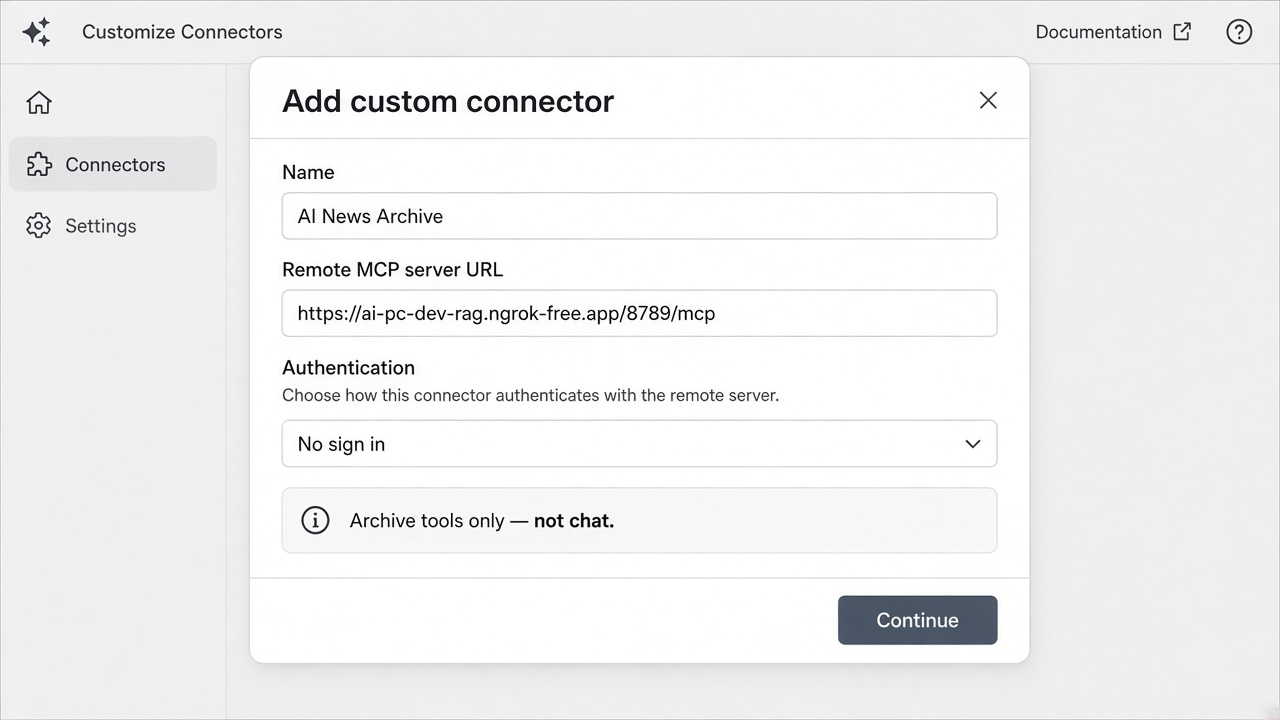
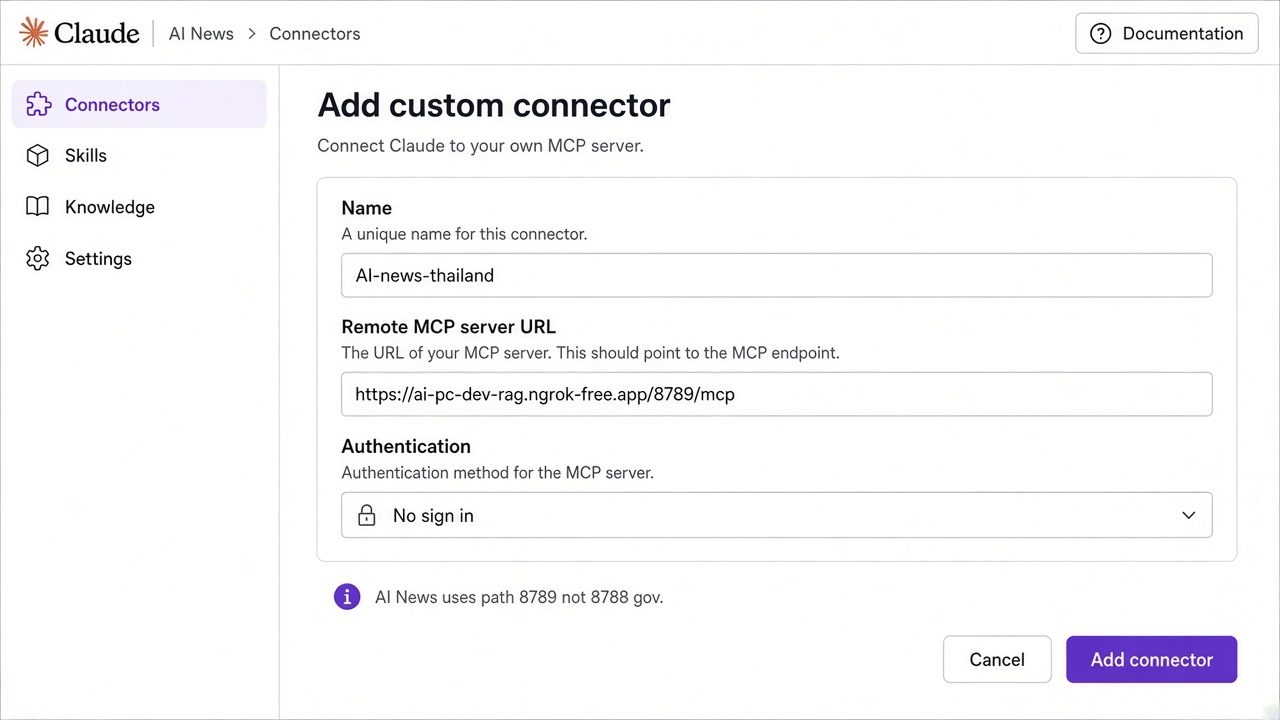
Document Claude connector as AI-news-thailand on /8789/mcp.
Mirror gov-news-thailand naming; keep Auth No sign in and warn against using gov :8788.

diff --git a/README.md b/README.md
@@ -68,11 +68,22 @@ https://ai-pc-dev-rag.ngrok-free.app/8789/mcp
 
 ### Claude.ai — เพิ่ม Custom Connector
 
+เหมือนรูปแบบ `gov-news-thailand` แต่คนละพอร์ต:
+
+| ช่อง | ค่า |
+| --- | --- |
+| **Name** | `AI-news-thailand` |
+| **URL** | `https://ai-pc-dev-rag.ngrok-free.app/8789/mcp` |
+| **Auth** | `No sign in` |
+
+| เทียบ | Name | URL path |
+| --- | --- | --- |
+| Gov | `gov-news-thailand` | `/8788/mcp` |
+| **AI News** | `AI-news-thailand` | `/8789/mcp` |
+
 1. **Customize → Connectors → Add custom connector**
-2. Name: `AI News Archive`
-3. Remote MCP server URL: ตามด้านบน
-4. Authentication: **No sign in**
-5. ในแชทเปิด Connectors แล้วสั่ง เช่น  
+2. กรอกตามตารางด้านบน
+3. ในแชทเปิด Connectors แล้วสั่ง เช่น  
    `ใช้ search_rag ค้น "NVIDIA H200" แล้วสรุปจากผล tool เท่านั้น`
 
 ![ตัวอย่างฟอร์ม Claude custom connector](docs/images/claude-connector-add.jpg)
@@ -84,7 +95,7 @@ https://ai-pc-dev-rag.ngrok-free.app/8789/mcp
 ```json
 {
   "mcpServers": {
-    "ai-news-archive": {
+    "AI-news-thailand": {
       "command": "npx",
       "args": [
         "-y",
